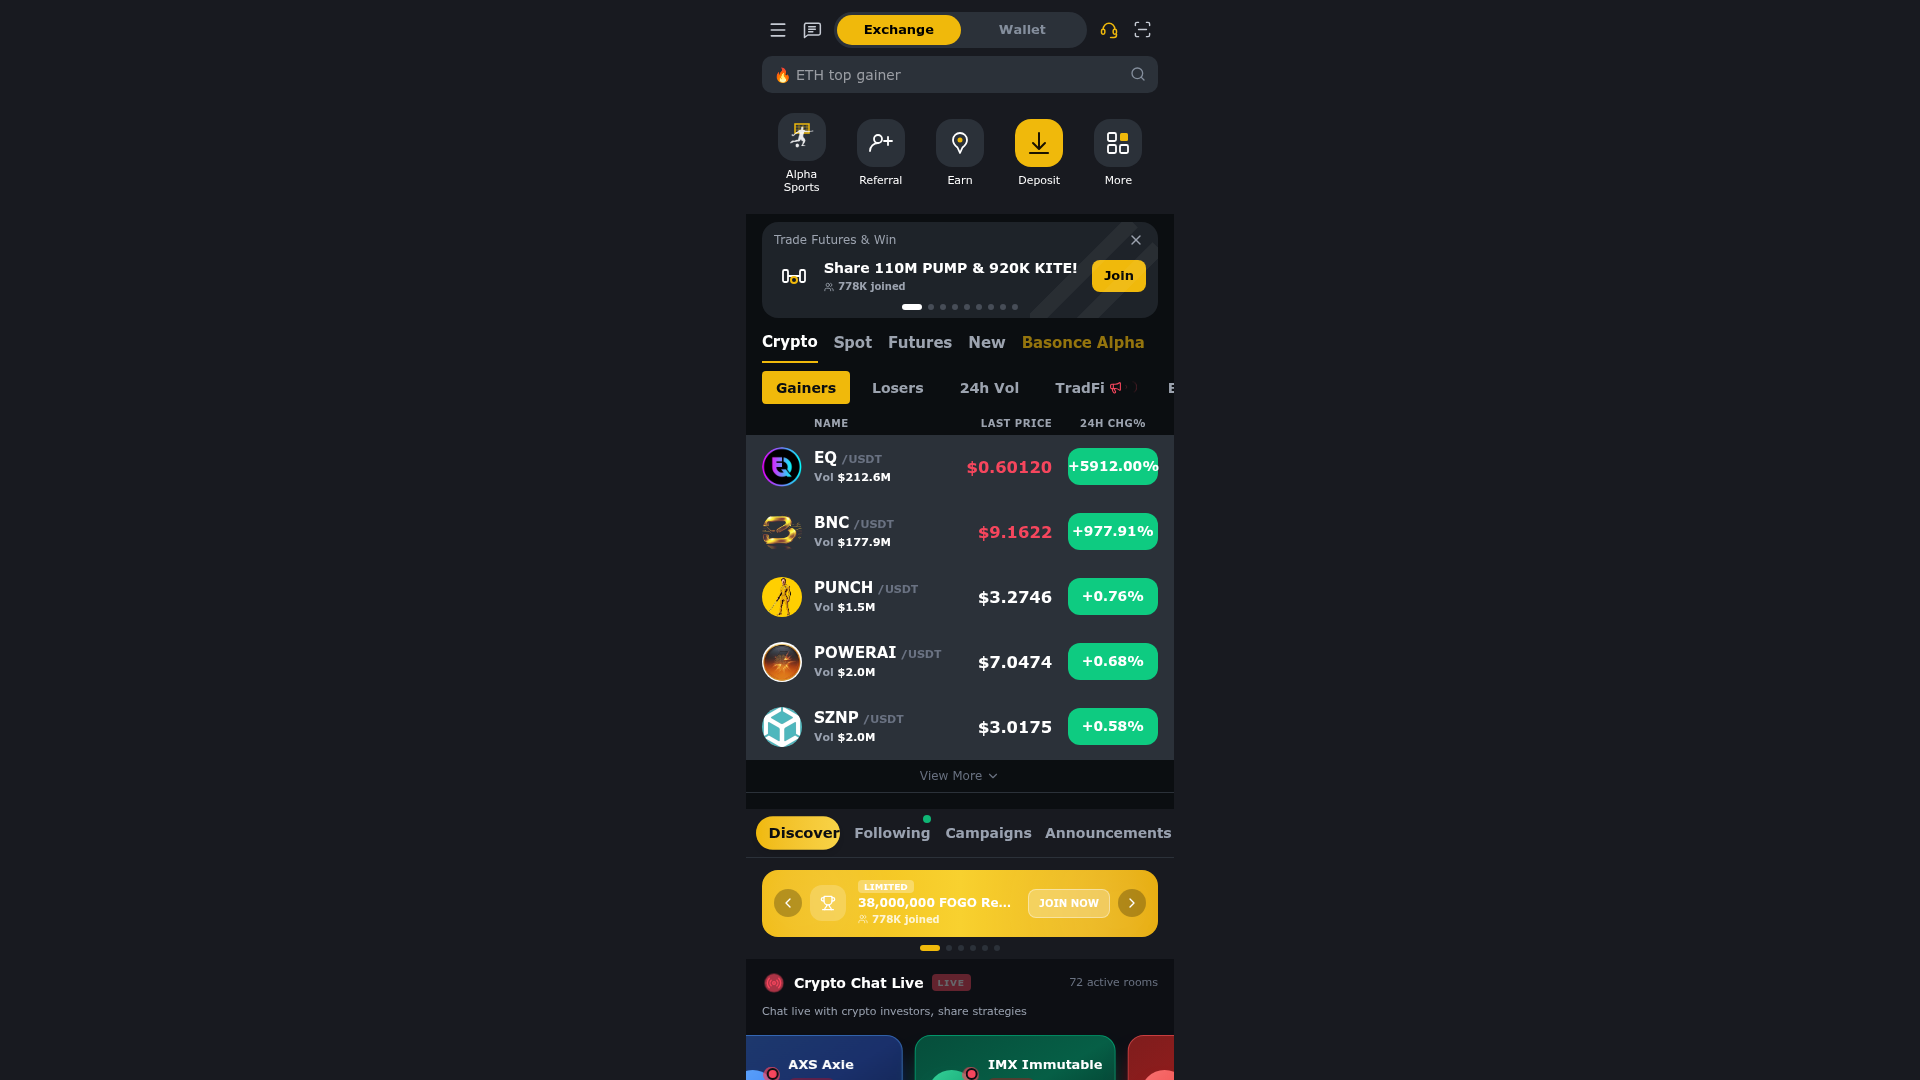
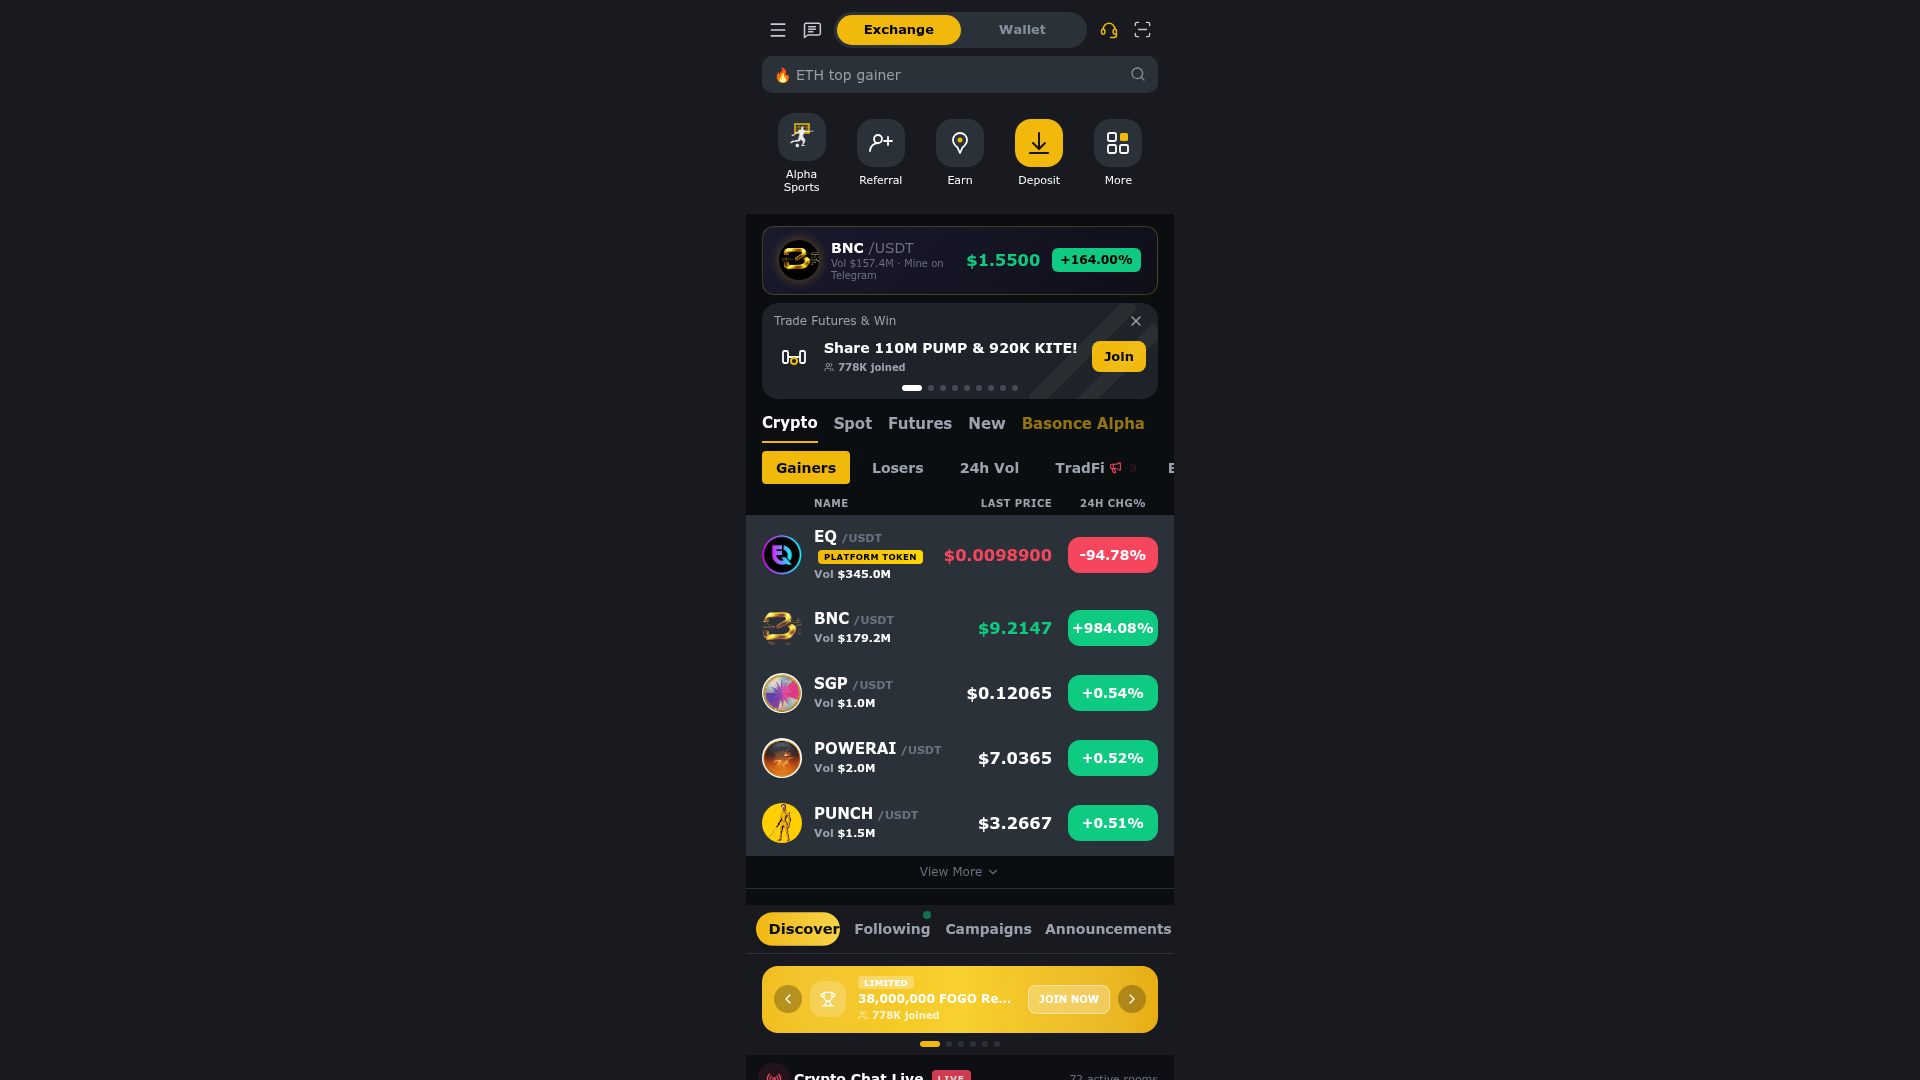
Fix infinite loading screen by correctly detecting Telegram context
Enhance `MinerMiniAppPage` to correctly identify when it's running within a Telegram Web App environment. This prevents the UI from freezing on a "Loading..." state in regular browsers by using local storage as a fallback and implementing a timeout for CloudStorage operations.

Replit-Commit-Author: Agent
Replit-Commit-Session-Id: 708acd5a-6600-4e4f-8164-9182d4e9beba
Replit-Commit-Checkpoint-Type: full_checkpoint
Replit-Commit-Event-Id: f3f2b842-8197-4ae2-9916-065a0f703a85
Replit-Commit-Screenshot-Url: https://storage.googleapis.com/screenshot-production-us-central1/d393d7f4-3e88-49a4-8024-5c41a1682b42/708acd5a-6600-4e4f-8164-9182d4e9beba/vonS0QA
Replit-Helium-Checkpoint-Created: true

Changed region(s): [[0.375, 0.1833, 0.625, 1.0]]

diff --git a/artifacts/kite-exchange/src/pages/MinerMiniAppPage.tsx b/artifacts/kite-exchange/src/pages/MinerMiniAppPage.tsx
@@ -70,17 +70,39 @@ const WITHDRAW_MIN = 50;
 // Telegram CloudStorage helpers with localStorage fallback
 const tg: any = typeof window !== 'undefined' ? (window as any).Telegram?.WebApp : null;
 
+// Only use Telegram CloudStorage when we are REALLY inside Telegram —
+// telegram-web-app.js stubs CloudStorage in regular browsers but its
+// callback never fires there, which would freeze the UI on "Loading…".
+function inTelegramContext(): boolean {
+  if (typeof window === 'undefined') return false;
+  if ((window as any).__IS_TELEGRAM_MINIAPP__ === true) return true;
+  return !!(window as any).Telegram?.WebApp?.initData;
+}
+
 function loadState(): Promise<MinerState> {
   return new Promise((resolve) => {
-    if (tg?.CloudStorage) {
+    const useCloud = inTelegramContext() && tg?.CloudStorage;
+    // Hard timeout: even if CloudStorage misbehaves, we never hang.
+    let done = false;
+    const finish = (s: MinerState) => { if (!done) { done = true; resolve(s); } };
+    setTimeout(() => {
+      try {
+        const v = localStorage.getItem('miner_state');
+        if (!v) return finish({ ...DEFAULT_STATE });
+        finish({ ...DEFAULT_STATE, ...JSON.parse(v) });
+      } catch { finish({ ...DEFAULT_STATE }); }
+    }, 1200);
+    if (useCloud) {
       tg.CloudStorage.getItem('miner_state', (err: any, val: string) => {
-        if (err || !val) return resolve({ ...DEFAULT_STATE });
-        try { resolve({ ...DEFAULT_STATE, ...JSON.parse(val) }); } catch { resolve({ ...DEFAULT_STATE }); }
+        if (err || !val) return finish({ ...DEFAULT_STATE });
+        try { finish({ ...DEFAULT_STATE, ...JSON.parse(val) }); } catch { finish({ ...DEFAULT_STATE }); }
       });
     } else {
-      const v = localStorage.getItem('miner_state');
-      if (!v) return resolve({ ...DEFAULT_STATE });
-      try { resolve({ ...DEFAULT_STATE, ...JSON.parse(v) }); } catch { resolve({ ...DEFAULT_STATE }); }
+      try {
+        const v = localStorage.getItem('miner_state');
+        if (!v) return finish({ ...DEFAULT_STATE });
+        finish({ ...DEFAULT_STATE, ...JSON.parse(v) });
+      } catch { finish({ ...DEFAULT_STATE }); }
     }
   });
 }
@@ -88,10 +110,10 @@ function loadState(): Promise<MinerState> {
 function saveState(s: MinerState): Promise<void> {
   return new Promise((resolve) => {
     const v = JSON.stringify(s);
-    if (tg?.CloudStorage) {
-      tg.CloudStorage.setItem('miner_state', v, () => resolve());
+    try { localStorage.setItem('miner_state', v); } catch {}
+    if (inTelegramContext() && tg?.CloudStorage) {
+      try { tg.CloudStorage.setItem('miner_state', v, () => resolve()); } catch { resolve(); }
     } else {
-      localStorage.setItem('miner_state', v);
       resolve();
     }
   });